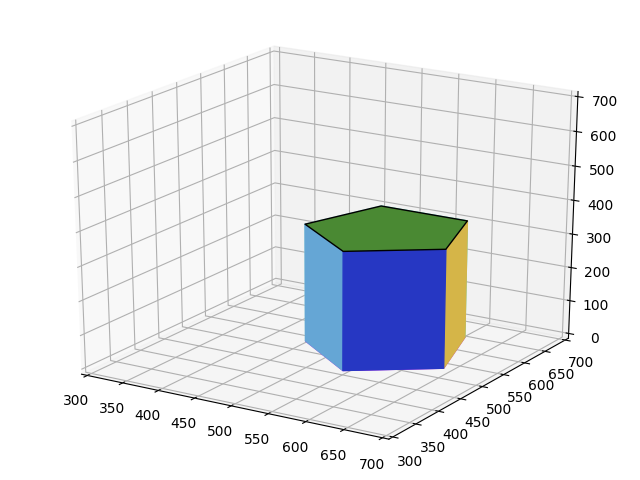
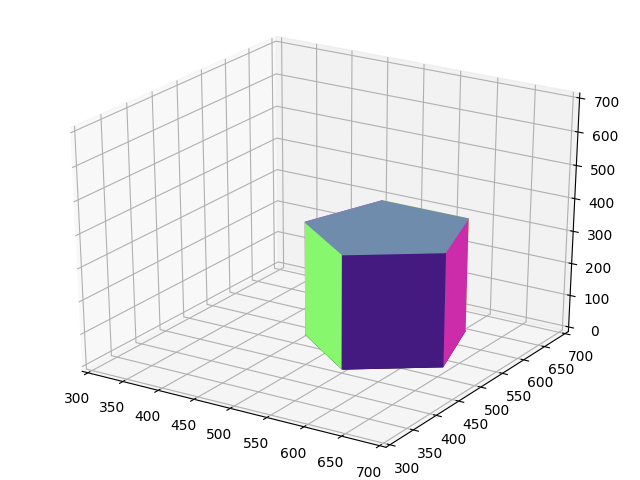
20/02/17 update

diff --git a/3d plots/addheight.py b/3d plots/addheight.py
@@ -1,7 +1,4 @@
-import mpl_toolkits.mplot3d as a3
-import matplotlib.colors as colors
-import pylab as pl
-import scipy as sp
+from copy import deepcopy
 
 vtx = [
 [550, 450],#0
@@ -12,38 +9,27 @@ vtx = [
 ]
 n = len(vtx)
 h = 350
-print (n)
 
-for i in range(len(vtx)):
-    vtx0 = []
-    vtx0.extend(vtx[i])
-    vtx0.extend([0])
+vtx2 = [
+[550, 450],#0
+[455, 519],#1
+[491, 631],#2
+[609, 631],#3
+[645, 519],#4
+]
+n = len(vtx2)
+h = 350
 
-for i in range(len(vtx)):
-    vtxh = []
-    vtxh.extend(vtx[i])
-    vtxh.extend([h])
+def addvtx0():
+    vtx = deepcopy(vtx2)
+    vtxh = deepcopy(vtx2)
+    for i in range(len(vtx)):
+        a = vtx[i]
+        a.append(0)
+        b = vtxh[i]
+        b.append(h)
+        vtx.append(b)
+    return vtx
 
-vtx3d = vtx0, vtxh
-print (vtx3d)
-ax = a3.Axes3D(pl.figure())
-for i in range(len(vtx[0:n])):
-
-    wall = [vtx3d[i], vtx3d[(i+1)%n], vtx3d[(i+1)%n +n], vtx3d[i+n]]
-    square = a3.art3d.Poly3DCollection([wall])
-    square.set_color(colors.rgb2hex(sp.rand(4)))
-    ax.add_collection3d(square)
-tri = a3.art3d.Poly3DCollection([vtx3d[0:5]])
-tri2 = a3.art3d.Poly3DCollection([vtx3d[5:10]])
-
-tri.set_color(colors.rgb2hex(sp.rand(4)))
-tri2.set_color(colors.rgb2hex(sp.rand(4)))
-tri.set_edgecolor('k')
-ax.add_collection3d(tri)
-ax.add_collection3d(tri2)
-
-ax.set_xlim(300, 700)
-ax.set_ylim(300, 700)
-ax.set_zlim(0, 700)
-
-pl.show()
+vtx = addvtx0();
+print(vtx)
